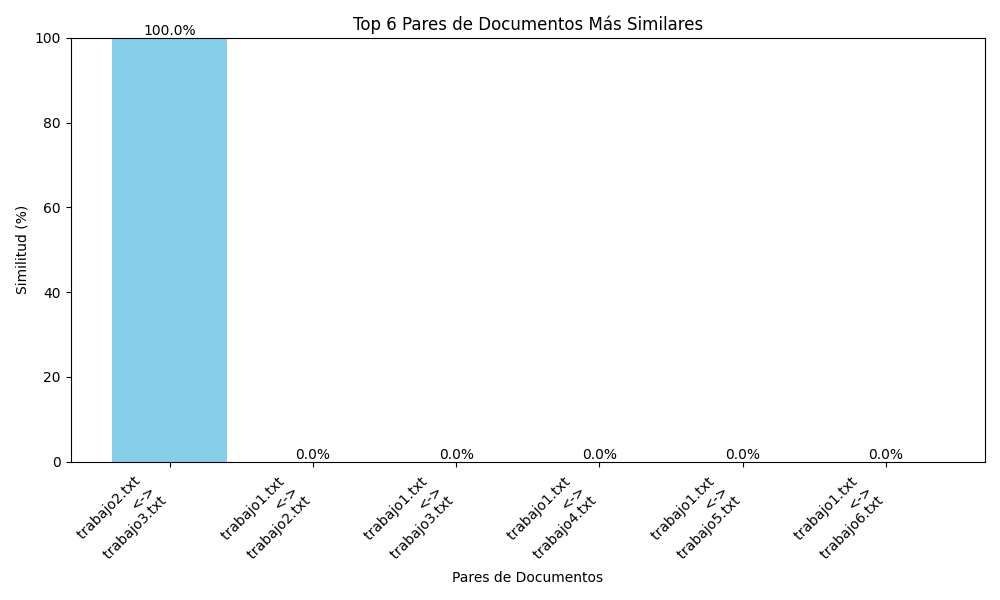
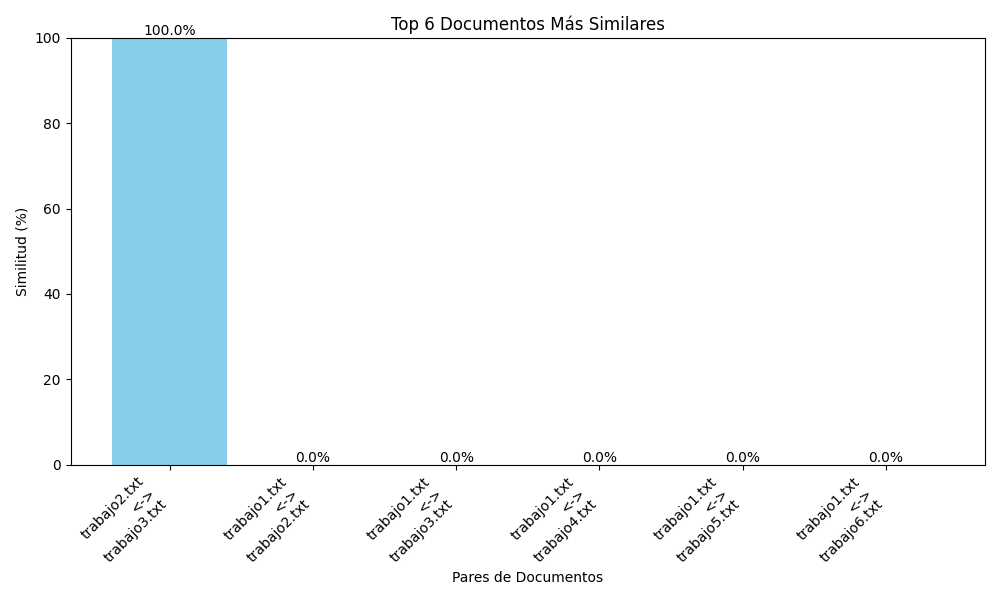
Detector Plagio functionality

diff --git a/src/visualization.py b/src/visualization.py
@@ -4,44 +4,43 @@ import matplotlib.pyplot as plt
 def graph_similarity_results(results, top_n, save_path="resultados/similarity_results.png"):
     """
     Grafica los resultados de similitud entre documentos y guarda la imagen en la carpeta 'resultados'.
-
+    
     :param results: Lista ordenada de diccionarios con la estructura:
-                    {'fileA': <nombre_archivo1>, 'fileB': <nombre_archivo2>, 'similarity': <valor>}
-    :param top_n: Número de pares de documentos a graficar
-    :param save_path: Ruta del archivo donde se guardará el gráfico
+                    { 'fileA': <nombre_archivo>, 'fileB': <nombre_archivo>, 'similarity': <valor> }
+    :param top_n: Número de pares de documentos a graficar.
+    :param save_path: Ruta del archivo donde se guardará el gráfico.
     """
-    # Selecciona los top N resultados
+    # Seleccionar los top N resultados
     top_results = results[:top_n]
     
-    # Prepara las etiquetas y los valores (como porcentajes)
-    labels = [f"{r['fileA']} \n<->\n {r['fileB']}" for r in top_results]
-    similarities = [r['similarity'] * 100 for r in top_results]  # Convertir similitud a porcentaje
+    # Preparar las etiquetas y los valores (convertir la similitud a porcentaje)
+    labels = [f"{r['fileA']}\n<->\n{r['fileB']}" for r in top_results]
+    similarities = [r['similarity'] * 100 for r in top_results]
     
-    # Configura la figura y realiza la gráfica de barras
+    # Configurar la figura y crear la gráfica de barras
     plt.figure(figsize=(10, 6))
     bars = plt.bar(labels, similarities, color='skyblue')
     plt.xlabel('Pares de Documentos')
     plt.ylabel('Similitud (%)')
-    plt.title(f'Top {top_n} Pares de Documentos Más Similares')
+    plt.title(f'Top {top_n} Documentos Más Similares')
     plt.xticks(rotation=45, ha='right')
     plt.ylim(0, 100)
-
-    # Agregar el valor de la similitud sobre cada barra
+    
+    # Añadir el valor de similitud encima de cada barra
     for bar in bars:
         height = bar.get_height()
-        plt.text(bar.get_x() + bar.get_width()/2, height, f'{height:.1f}%', 
-                 ha='center', va='bottom')
-
+        plt.text(bar.get_x() + bar.get_width()/2, height, f'{height:.1f}%', ha='center', va='bottom')
+    
     plt.tight_layout()
-
-    # Crear la carpeta 'resultados' si no existe
+    
+    # Crear la carpeta de resultados si no existe
     output_folder = os.path.dirname(save_path)
     if not os.path.exists(output_folder):
         os.makedirs(output_folder)
     
-    # Guardar el gráfico en la carpeta 'resultados'
+    # Guardar el gráfico
     plt.savefig(save_path)
     print(f"Gráfico guardado en: {save_path}")
-
+    
     # Mostrar el gráfico
     plt.show()

diff --git a/main.py b/main.py
@@ -3,36 +3,44 @@
 Archivo principal para ejecutar el análisis de similitud de documentos.
 """
 
+import os
 from src.preprocessing import process_documents
 from src.hash_utils import create_hash_tables, compare_documents
 from src.sorting import merge_sort, show_top_results
 from src.visualization import graph_similarity_results
 
 def main():
-    folder_path = './documentos'  # Carpeta con los archivos .txt
-    ngram_size = 3                # Tamaño de n-gramas: 2 para bi-gramas, 3 para tri-gramas, etc.
-    top_n = 6                     # Número de pares a mostrar
-
-    # Procesar documentos
+    # Obtener la ruta raíz del proyecto (donde se encuentra main.py)
+    project_root = os.path.dirname(os.path.abspath(__file__))
+    
+    # Definir la ruta de la carpeta de documentos en función del proyecto
+    folder_path = os.path.join(project_root, "documentos")
+    
+    # Parámetros de procesamiento
+    ngram_size = 3  # Tamaño de n-gramas (2 para bi-gramas, 3 para tri-gramas, etc.)
+    top_n = 6       # Número de pares a mostrar
+    
+    # Paso 1 y 2: Cargar, limpiar y tokenizar documentos en n-gramas
     documents_data = process_documents(folder_path, ngram_size)
     if not documents_data:
         print('No se procesaron documentos.')
         return
 
-    # Crear tablas hash con los n-gramas de cada documento
+    # Paso 3: Crear tablas hash con los n-gramas de cada documento
     hash_tables = create_hash_tables(documents_data)
-
-    # Comparar cada par de documentos y calcular similitud Jaccard
+    
+    # Paso 4: Comparar documentos y calcular la similitud de Jaccard
     similarity_results = compare_documents(hash_tables)
-
-    # Ordenar los resultados (descendente) con merge sort
+    
+    # Paso 5: Ordenar los resultados (orden descendente) usando Merge Sort
     sorted_results = merge_sort(similarity_results)
-
-    # Mostrar resultados en consola
+    
+    # Paso 6: Mostrar los top N pares de documentos más similares en consola
     show_top_results(sorted_results, top_n)
-
-    # Graficar y guardar los resultados en la carpeta 'resultados'
-    graph_similarity_results(sorted_results, top_n, save_path="resultados/similarity_results.png")
+    
+    # Funcionalidad adicional: Graficar los resultados y guardarlos en la carpeta "resultados"
+    save_path = os.path.join(project_root, "resultados", "similarity_results.png")
+    graph_similarity_results(sorted_results, top_n, save_path=save_path)
 
 if __name__ == '__main__':
     main()

diff --git a/src/preprocessing.py b/src/preprocessing.py
@@ -8,10 +8,10 @@ import re
 
 def clean_text(text):
     """
-    Limpia el texto: lo pasa a minúsculas, elimina signos de puntuación y espacios extra.
+    Limpia el texto: convierte a minúsculas, elimina signos de puntuación y espacios extra.
     """
     text = text.lower()
-    text = re.sub(r'[^\w\s]', '', text)  # Quita la puntuación
+    text = re.sub(r'[^\w\s]', '', text)  # Elimina signos de puntuación
     text = re.sub(r'\s+', ' ', text).strip()  # Reemplaza múltiples espacios con uno solo y quita espacios extra
     return text
 
@@ -27,26 +27,16 @@ def generate_ngrams(text, n):
 
 def process_documents(folder_path, ngram_size):
     """
-    Procesa todos los documentos de texto en la carpeta especificada.
+    Procesa todos los documentos de texto (.txt) en la carpeta indicada.
     Para cada documento:
       - Lee el archivo.
       - Limpia el texto.
-      - Genera n-gramas.
-    
-    Retorna un diccionario con la siguiente estructura:
-      {
-         'archivo.txt': {
-             'original_text': <texto original>,
-             'cleaned_text': <texto limpio>,
-             'ngrams': [lista de n-gramas],
-             'ngram_count': <cantidad de n-gramas>
-         },
-         ...
-      }
+      - Genera los n-gramas.
+    Retorna un diccionario con datos para cada documento.
     """
     documents_data = {}
 
-    # Paso 1: Crear el folder si no existe
+    # Crear la carpeta de documentos si no existe
     try:
         os.makedirs(folder_path, exist_ok=True)
         print(f'Folder "{folder_path}" fue creado o ya existe.')
@@ -54,7 +44,7 @@ def process_documents(folder_path, ngram_size):
         print(f'Error al crear folder: {e}')
         return {}
 
-    # Listar archivos y filtrar los archivos .txt
+    # Listar archivos y filtrar los .txt
     try:
         files = os.listdir(folder_path)
     except Exception as e:
@@ -69,7 +59,7 @@ def process_documents(folder_path, ngram_size):
 
     print(f'Se encontraron {len(text_files)} archivos de texto.')
 
-    # Procesar cada archivo
+    # Procesar cada archivo de texto
     for file in text_files:
         file_path = os.path.join(folder_path, file)
         try:

diff --git a/tests/test_hash_utils.py b/tests/test_hash_utils.py
@@ -10,8 +10,9 @@ import unittest
 from src.hash_utils import simple_hash, jaccard_similarity, create_hash_tables, compare_documents
 
 class TestHashUtils(unittest.TestCase):
+
     def test_simple_hash(self):
-        # Prueba: La misma cadena debe producir el mismo valor hash.
+        # Verifica que la misma cadena produce el mismo valor hash.
         s = "hola mundo"
         h1 = simple_hash(s)
         h2 = simple_hash(s)
@@ -19,15 +20,15 @@ class TestHashUtils(unittest.TestCase):
         self.assertIsInstance(h1, int)
 
     def test_jaccard_similarity(self):
-        # Prueba: calcular la similitud de Jaccard para dos conjuntos.
+        # Verifica el cálculo de la similitud de Jaccard entre dos conjuntos.
         set_a = {1, 2, 3}
         set_b = {2, 3, 4}
-        expected = 2 / 4  # La intersección tiene 2 elementos, la unión 4 elementos.
+        expected = 2 / 4  # Intersección de 2 elementos, unión de 4 elementos.
         result = jaccard_similarity(set_a, set_b)
         self.assertAlmostEqual(result, expected)
 
     def test_create_and_compare_documents(self):
-        # Prueba: creación de tablas hash y comparación de documentos.
+        # Verifica la creación de tablas hash y la comparación de documentos.
         documents_data = {
             "doc1.txt": {"ngrams": ["hola mundo", "mundo esto"]},
             "doc2.txt": {"ngrams": ["mundo esto", "esto es"]}
@@ -37,7 +38,7 @@ class TestHashUtils(unittest.TestCase):
         self.assertIn("doc2.txt", hash_tables)
         
         results = compare_documents(hash_tables)
-        # Con dos documentos, debe haber un único resultado de comparación.
+        # Con dos documentos se debe obtener un único resultado de comparación.
         self.assertEqual(len(results), 1)
         # La similitud debe estar entre 0 y 1.
         self.assertGreaterEqual(results[0]["similarity"], 0.0)

diff --git a/tests/test_preprocessing.py b/tests/test_preprocessing.py
@@ -10,15 +10,17 @@ import unittest
 from src.preprocessing import clean_text, generate_ngrams
 
 class TestPreprocessing(unittest.TestCase):
+
     def test_clean_text(self):
-        # Prueba: se debe convertir el texto a minúsculas, eliminar puntuación y espacios adicionales.
+        # Verifica que el texto se limpie correctamente:
+        # debe convertirse a minúsculas, eliminar puntuación y espacios extra.
         text = "Hola, MUNDO!  Esto es una prueba."
         expected = "hola mundo esto es una prueba"
         result = clean_text(text)
         self.assertEqual(result, expected)
 
     def test_generate_ngrams(self):
-        # Prueba: se deben generar correctamente los n-gramas a partir del texto.
+        # Verifica la correcta generación de n-gramas.
         text = "hola mundo esto es una prueba"
         n = 2
         expected = ["hola mundo", "mundo esto", "esto es", "es una", "una prueba"]

diff --git a/src/sorting.py b/src/sorting.py
@@ -1,11 +1,11 @@
 """
 Módulo de ordenamiento y visualización de resultados.
-Incluye una implementación de Merge Sort para ordenar pares de documentos según similitud.
+Incluye la implementación de Merge Sort para ordenar los pares de documentos según su similitud.
 """
 
 def merge_sort(arr):
     """
-    Ordena una lista de diccionarios (con clave 'similarity') en orden descendente.
+    Ordena una lista de diccionarios (con la clave 'similarity') en orden descendente.
     """
     if len(arr) <= 1:
         return arr
@@ -30,7 +30,7 @@ def merge(left, right):
 
 def show_top_results(results, top_n):
     """
-    Muestra los top N pares de documentos con mayor similitud.
+    Muestra en consola los top N pares de documentos con mayor similitud.
     """
     print(f'\nTop {top_n} documentos más similares:')
     top_results = results[:top_n]

diff --git a/tests/test_sorting.py b/tests/test_sorting.py
@@ -1,18 +1,18 @@
-import unittest
 import sys
 import os
 
-# Determine the project root (one level up from the tests folder)
+# Agregar la ruta raíz del proyecto (un nivel arriba de la carpeta tests) a sys.path
 project_root = os.path.abspath(os.path.join(os.path.dirname(__file__), '..'))
 if project_root not in sys.path:
     sys.path.insert(0, project_root)
 
+import unittest
 from src.sorting import merge_sort
 
 class TestSorting(unittest.TestCase):
 
     def test_merge_sort(self):
-        # Lista de diccionarios con la clave 'similarity'
+        # Prueba: ordenar una lista de diccionarios por la clave 'similarity' de forma descendente.
         data = [
             {"fileA": "a", "fileB": "b", "similarity": 0.4},
             {"fileA": "a", "fileB": "c", "similarity": 0.8},

diff --git a/src/hash_utils.py b/src/hash_utils.py
@@ -10,13 +10,13 @@ def simple_hash(s):
     hash_val = 0
     for char in s:
         hash_val = (hash_val << 5) - hash_val + ord(char)
-        hash_val &= 0xFFFFFFFF  # Limita a 32 bits
+        hash_val &= 0xFFFFFFFF  # Limitar a 32 bits
     return hash_val
 
 def create_hash_tables(documents_data):
     """
-    Para cada documento, crea una tabla hash (conjunto) de sus n-gramas utilizando simple_hash.
-    Retorna un diccionario: { 'archivo.txt': set(hash de cada n-grama), ... }
+    Para cada documento, crea una tabla hash (un conjunto) de sus n-gramas usando simple_hash.
+    Retorna un diccionario: { 'archivo.txt': conjunto(hash de cada n-grama), ... }
     """
     hash_tables = {}
     for filename, data in documents_data.items():
